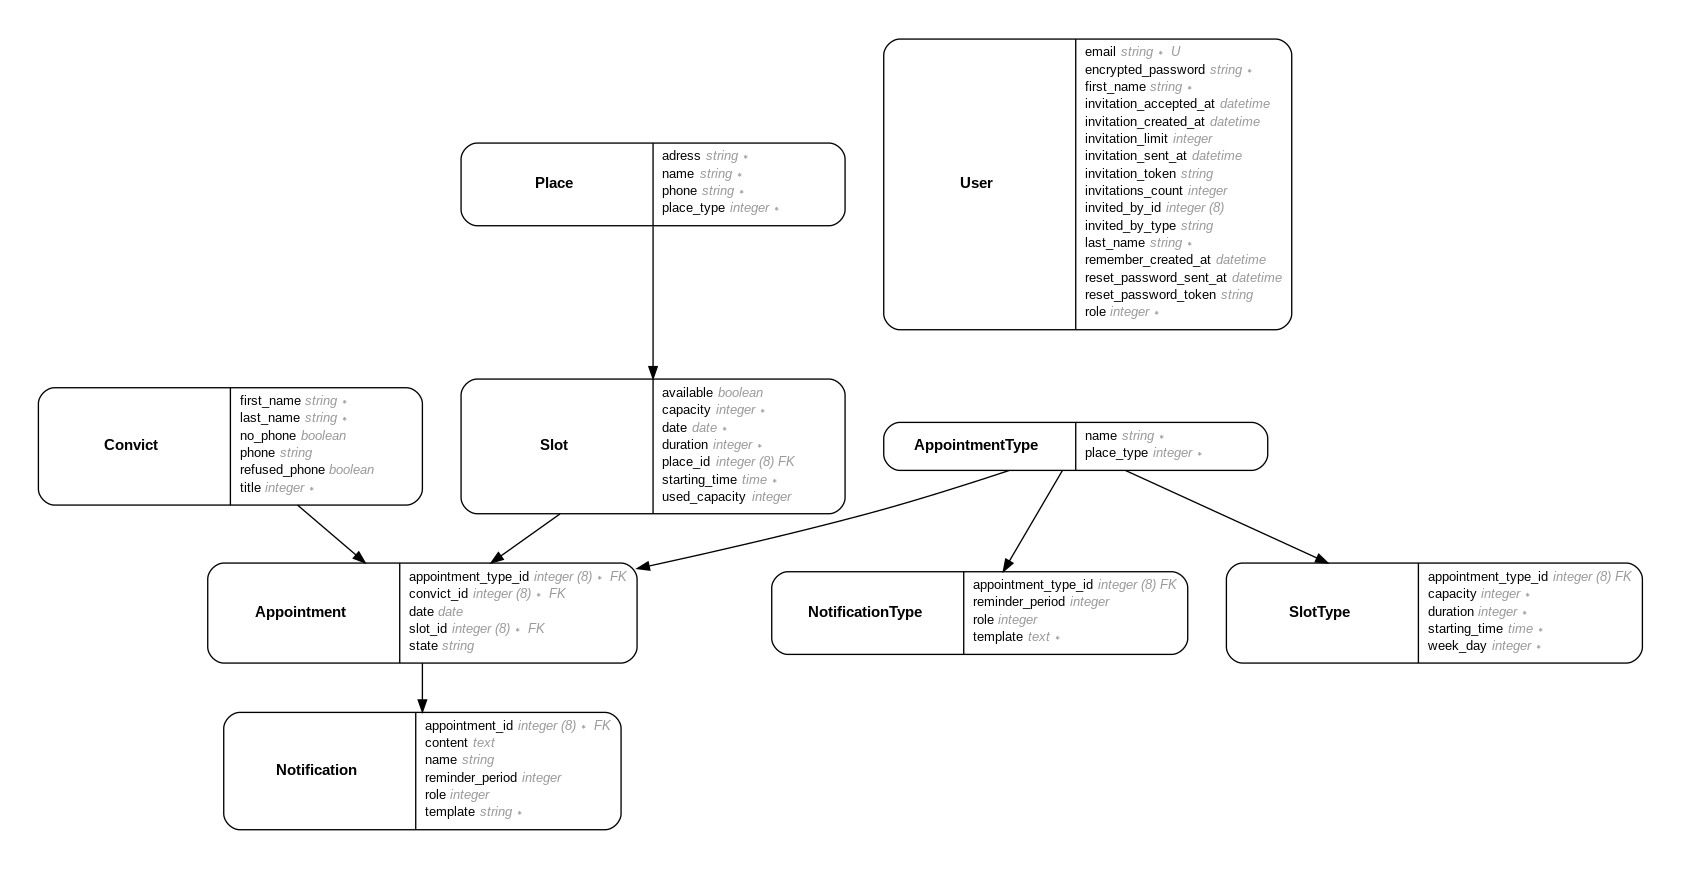
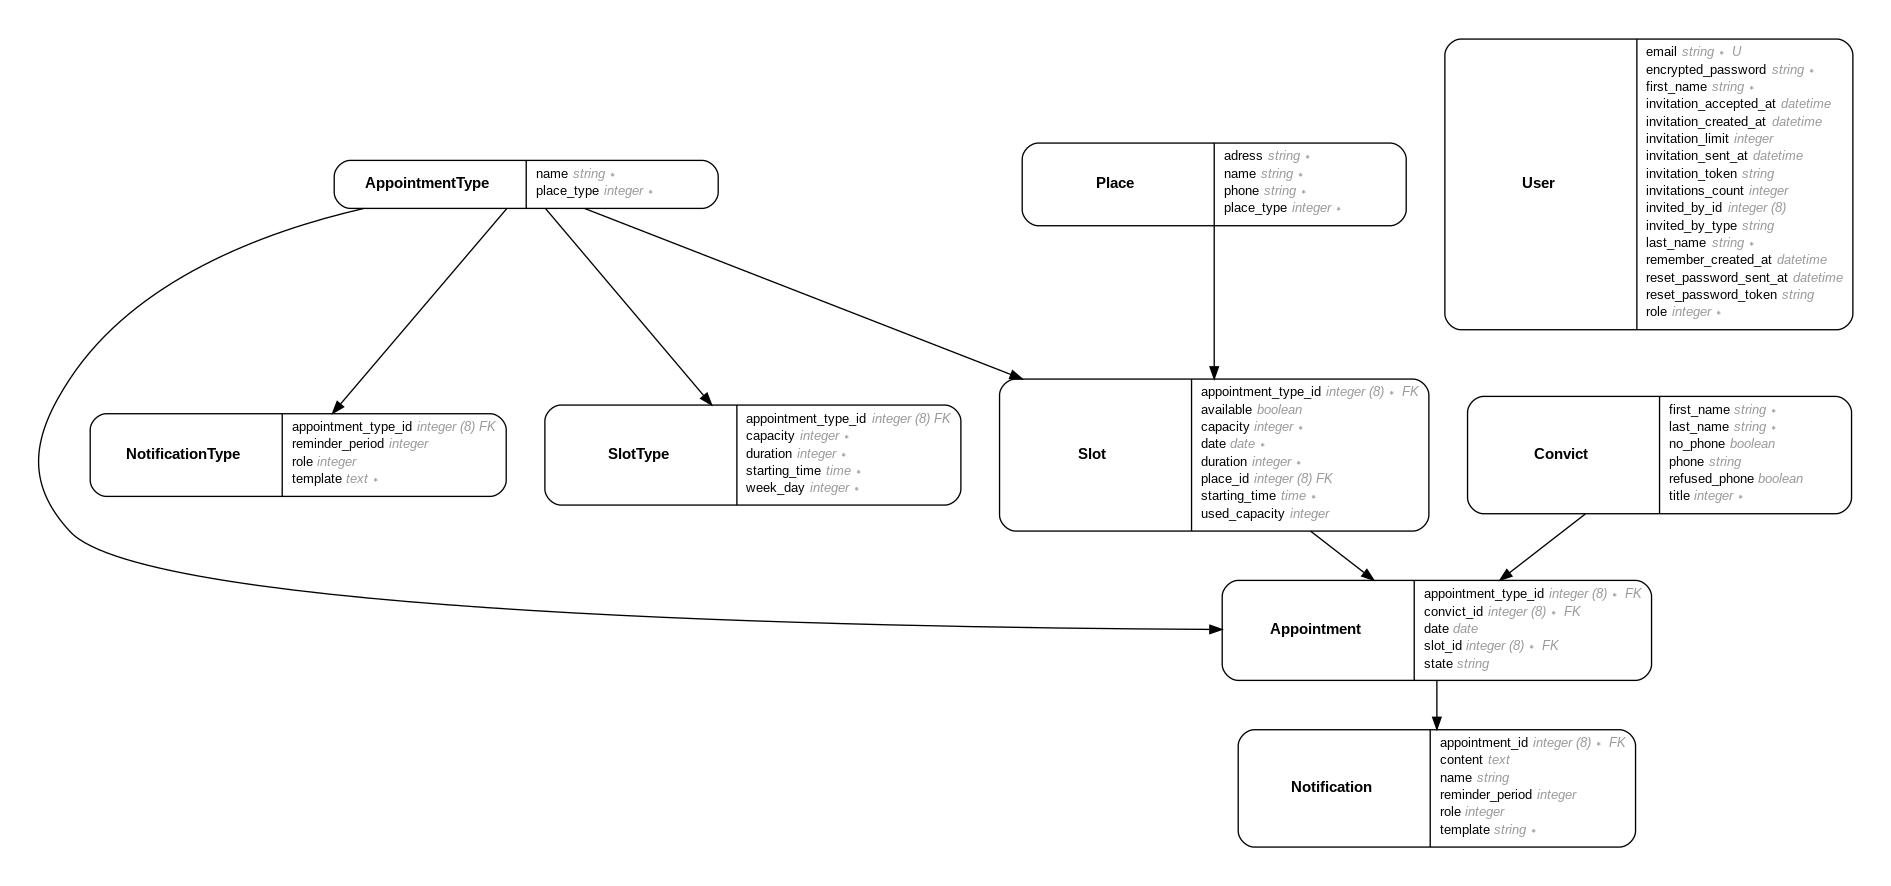
fix slot selection bug : scope by appointment type

diff --git a/app/javascript/packs/new_appointment.js b/app/javascript/packs/new_appointment.js
@@ -1,15 +1,28 @@
 import Rails from '@rails/ujs';
 
 let placeSelect = document.getElementById('appointment-form-place-select');
+let aptTypeSelect = document.getElementById('appointment_appointment_type_id');
 let loadSlotsLink = document.getElementById('load-slots-link');
 let loadSlotsButton = document.getElementById('load-slots-button');
 
 placeSelect.addEventListener('change', (e) => {
-  Rails.ajax({
-    type: 'GET',
-    url: '/select_slot?place_id=' + placeSelect.value,
-    success: function() { allowSubmitOnSlotSelection(); }
-  });
+  if (aptTypeSelect.value) {
+    Rails.ajax({
+      type: 'GET',
+      url: '/select_slot?place_id=' + placeSelect.value + '&apt_type_id=' + aptTypeSelect.value,
+      success: function() { allowSubmitOnSlotSelection(); }
+    });
+  }
+});
+
+aptTypeSelect.addEventListener('change', (e) => {
+  if (placeSelect.value) {
+    Rails.ajax({
+      type: 'GET',
+      url: '/select_slot?place_id=' + placeSelect.value + '&apt_type_id=' + aptTypeSelect.value,
+      success: function() { allowSubmitOnSlotSelection(); }
+    });
+  }
 });
 
 function allowSubmitOnSlotSelection () {

diff --git a/spec/models/slot_spec.rb b/spec/models/slot_spec.rb
@@ -2,23 +2,41 @@ require 'rails_helper'
 
 RSpec.describe Slot, type: :model do
   it { should belong_to(:place) }
+  it { should belong_to(:appointment_type) }
+
   it { should validate_presence_of(:date) }
   it { should validate_presence_of(:starting_time) }
   it { should validate_presence_of(:capacity) }
   it { should validate_presence_of(:duration) }
 
-  describe '.available_for_place' do
-    it 'returns available slots for a place' do
+  describe '.relevant_and_available' do
+    it 'returns available slots for a place and an appointment_type' do
       place1 = create(:place)
       place2 = create(:place)
 
-      slot1 = create(:slot, place: place1, available: true)
-      slot2 = create(:slot, place: place1, available: false)
-      slot3 = create(:slot, place: place2)
+      apt_type1 = create(:appointment_type)
+      apt_type2 = create(:appointment_type)
 
-      expect(Slot.available_for_place(place1)).to include(slot1)
-      expect(Slot.available_for_place(place1)).not_to include(slot2)
-      expect(Slot.available_for_place(place1)).not_to include(slot3)
+      slot1 = create(:slot, place: place1,
+                            appointment_type: apt_type1,
+                            available: true)
+
+      slot2 = create(:slot, place: place1,
+                            appointment_type: apt_type1,
+                            available: false)
+
+      slot3 = create(:slot, place: place2,
+                            appointment_type: apt_type1,
+                            available: true)
+
+      slot4 = create(:slot, place: place1,
+                            appointment_type: apt_type2,
+                            available: true)
+
+      expect(Slot.relevant_and_available(place1, apt_type1)).to include(slot1)
+      expect(Slot.relevant_and_available(place1, apt_type1)).not_to include(slot2)
+      expect(Slot.relevant_and_available(place1, apt_type1)).not_to include(slot3)
+      expect(Slot.relevant_and_available(place1, apt_type1)).not_to include(slot4)
     end
   end
 

diff --git a/db/schema.rb b/db/schema.rb
@@ -10,7 +10,7 @@
 #
 # It's strongly recommended that you check this file into your version control system.
 
-ActiveRecord::Schema.define(version: 2021_07_05_143551) do
+ActiveRecord::Schema.define(version: 2021_07_06_084757) do
 
   # These are extensions that must be enabled in order to support this database
   enable_extension "plpgsql"
@@ -98,6 +98,8 @@ ActiveRecord::Schema.define(version: 2021_07_05_143551) do
     t.integer "duration", default: 30
     t.integer "capacity", default: 1
     t.integer "used_capacity", default: 0
+    t.bigint "appointment_type_id", null: false
+    t.index ["appointment_type_id"], name: "index_slots_on_appointment_type_id"
     t.index ["place_id"], name: "index_slots_on_place_id"
   end
 
@@ -144,5 +146,6 @@ ActiveRecord::Schema.define(version: 2021_07_05_143551) do
   add_foreign_key "notification_types", "appointment_types"
   add_foreign_key "notifications", "appointments"
   add_foreign_key "slot_types", "appointment_types"
+  add_foreign_key "slots", "appointment_types"
   add_foreign_key "slots", "places"
 end

diff --git a/spec/features/appointments_spec.rb b/spec/features/appointments_spec.rb
@@ -37,15 +37,19 @@ RSpec.feature 'Appointments', type: :feature do
     it 'works' do
       create(:convict, first_name: 'JP', last_name: 'Cherty')
       place = create(:place, name: 'KFC de Chatelet')
-      create(:slot, place: place, date: '10/10/2021', starting_time: '16h')
       appointment_type = create(:appointment_type, name: 'Premier contact Spip')
+
+      create(:slot, place: place,
+                    appointment_type: appointment_type,
+                    date: '10/10/2021', starting_time: '16h')
+
       create(:notification_type, appointment_type: appointment_type)
 
       visit new_appointment_path
 
       select 'CHERTY Jp', from: 'PPSMJ'
-      select 'KFC de Chatelet', from: 'Lieu'
       select 'Premier contact Spip', from: 'Type de rendez-vous'
+      select 'KFC de Chatelet', from: 'Lieu'
 
       choose '10/10/2021 - 16:00'
 

diff --git a/bin/slot_generator.rb b/bin/slot_generator.rb
@@ -17,14 +17,15 @@ appointment_types = AppointmentType.all
 appointment_types.each do |appointment_type|
   concerned_places = places.where(place_type: appointment_type.place_type)
 
-  concerned_places.each do |p|
+  concerned_places.each do |place|
     appointment_type.slot_types.each do |slot_type|
       dates = open_dates.select {|date| date.strftime("%A").downcase == slot_type.week_day }
 
       dates.each do |date|
         Slot.create!(
           date: date,
-          place: p,
+          place: place,
+          appointment_type: appointment_type,
           starting_time: slot_type.starting_time,
           duration: slot_type.duration,
           capacity: slot_type.capacity,

diff --git a/app/models/slot.rb b/app/models/slot.rb
@@ -2,11 +2,19 @@ class Slot < ApplicationRecord
   has_paper_trail
 
   belongs_to :place
+  belongs_to :appointment_type
 
   validates :date, :starting_time, :duration, :capacity, presence: true
   validates_inclusion_of :available, in: [true, false]
 
-  scope :available_for_place, ->(place) { where(place_id: place.id, available: true) }
+  scope :relevant_and_available, (lambda do |place, appointment_type|
+    where(
+      place_id: place.id,
+      appointment_type_id: appointment_type.id,
+      available: true
+    )
+  end)
+
   scope :future, -> { where('date >= ?', Date.today) }
 
   def form_label

diff --git a/spec/features/convicts_spec.rb b/spec/features/convicts_spec.rb
@@ -51,8 +51,8 @@ RSpec.feature 'Convicts', type: :feature do
       allow_any_instance_of(Notification).to receive(:format_content)
 
       place = create(:place, name: 'McDo de Clichy')
-      create(:slot, place: place, date: '10/10/2021', starting_time: '14h')
       appointment_type = create(:appointment_type, name: 'Premier contact Spip')
+      create(:slot, place: place, appointment_type: appointment_type, date: '10/10/2021', starting_time: '14h')
       create(:notification_type, appointment_type: appointment_type)
 
       visit new_convict_path

diff --git a/spec/features/slots_spec.rb b/spec/features/slots_spec.rb
@@ -28,10 +28,12 @@ RSpec.feature 'Slots', type: :feature do
   describe 'creation' do
     it 'works' do
       create(:place, name: 'McDo de Clichy')
+      create(:appointment_type, name: 'Premier contact Spip')
 
       visit new_slot_path
 
       select 'McDo de Clichy', from: 'Lieu'
+      select 'Premier contact Spip', from: 'Type de rendez-vous'
 
       within '.form-date-select-fields' do
         select '14', from: 'slot_date_3i'

diff --git a/app/controllers/slots_controller.rb b/app/controllers/slots_controller.rb
@@ -36,6 +36,7 @@ class SlotsController < ApplicationController
   private
 
   def slot_params
-    params.require(:slot).permit(:place_id, :date, :starting_time)
+    params.require(:slot).permit(:place_id, :appointment_type_id,
+                                 :date, :starting_time)
   end
 end

diff --git a/app/controllers/appointments_controller.rb b/app/controllers/appointments_controller.rb
@@ -40,6 +40,7 @@ class AppointmentsController < ApplicationController
   def select_slot
     skip_authorization
     @place = Place.find(params[:place_id])
+    @appointment_type = AppointmentType.find(params[:apt_type_id])
 
     respond_to do |format|
       format.js

diff --git a/db/migrate/20210706084757_add_appointment_type_to_slots.rb b/db/migrate/20210706084757_add_appointment_type_to_slots.rb
@@ -1,0 +1,5 @@
+class AddAppointmentTypeToSlots < ActiveRecord::Migration[6.1]
+  def change
+    add_reference :slots, :appointment_type, null: false, foreign_key: true
+  end
+end

diff --git a/spec/factories/slots.rb b/spec/factories/slots.rb
@@ -7,5 +7,6 @@ FactoryBot.define do
     capacity { 3 }
     used_capacity { 0 }
     place
+    appointment_type
   end
 end
